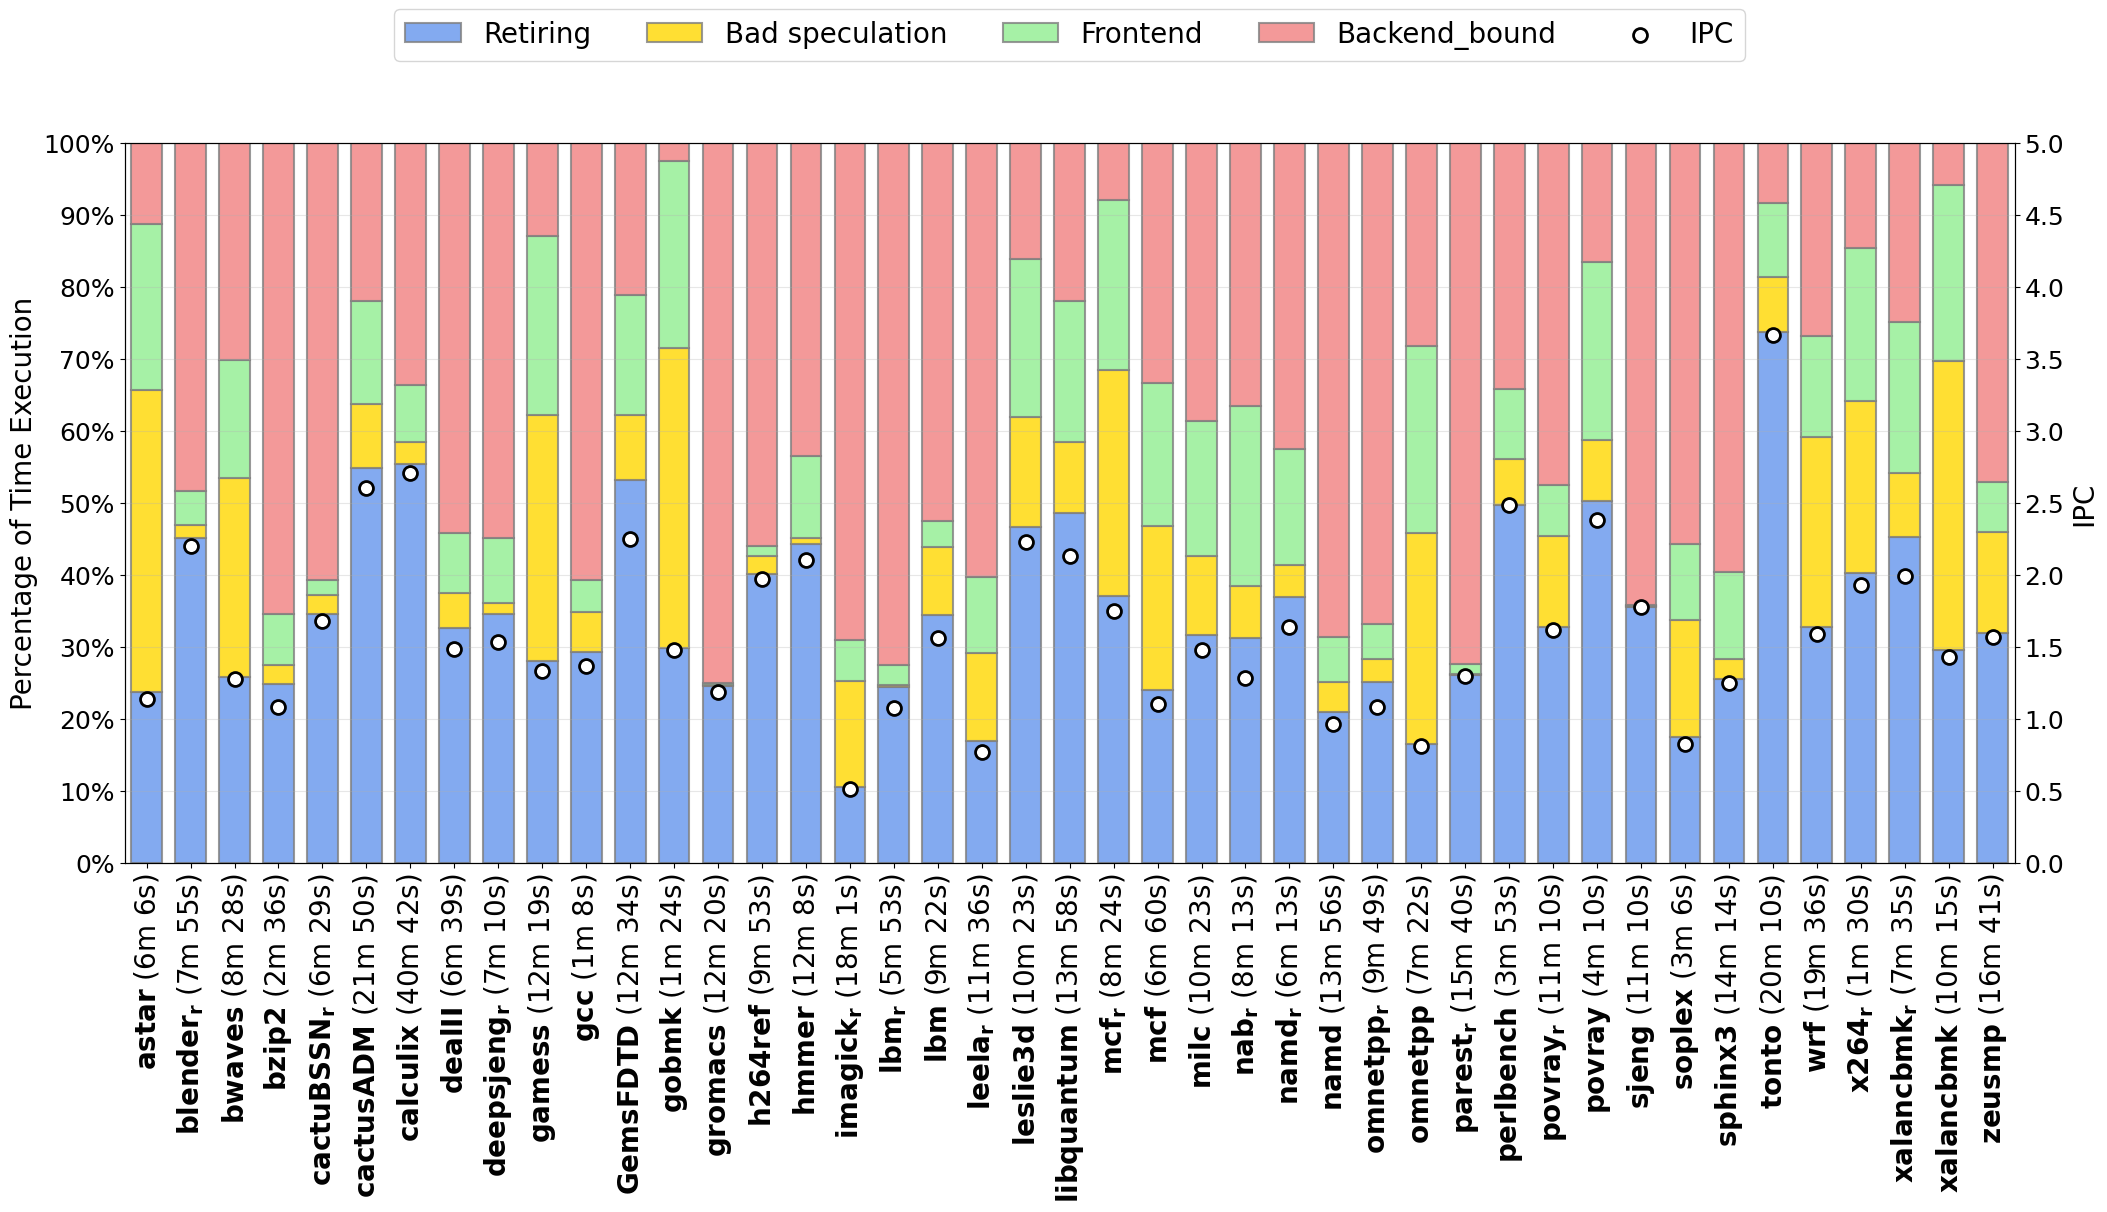
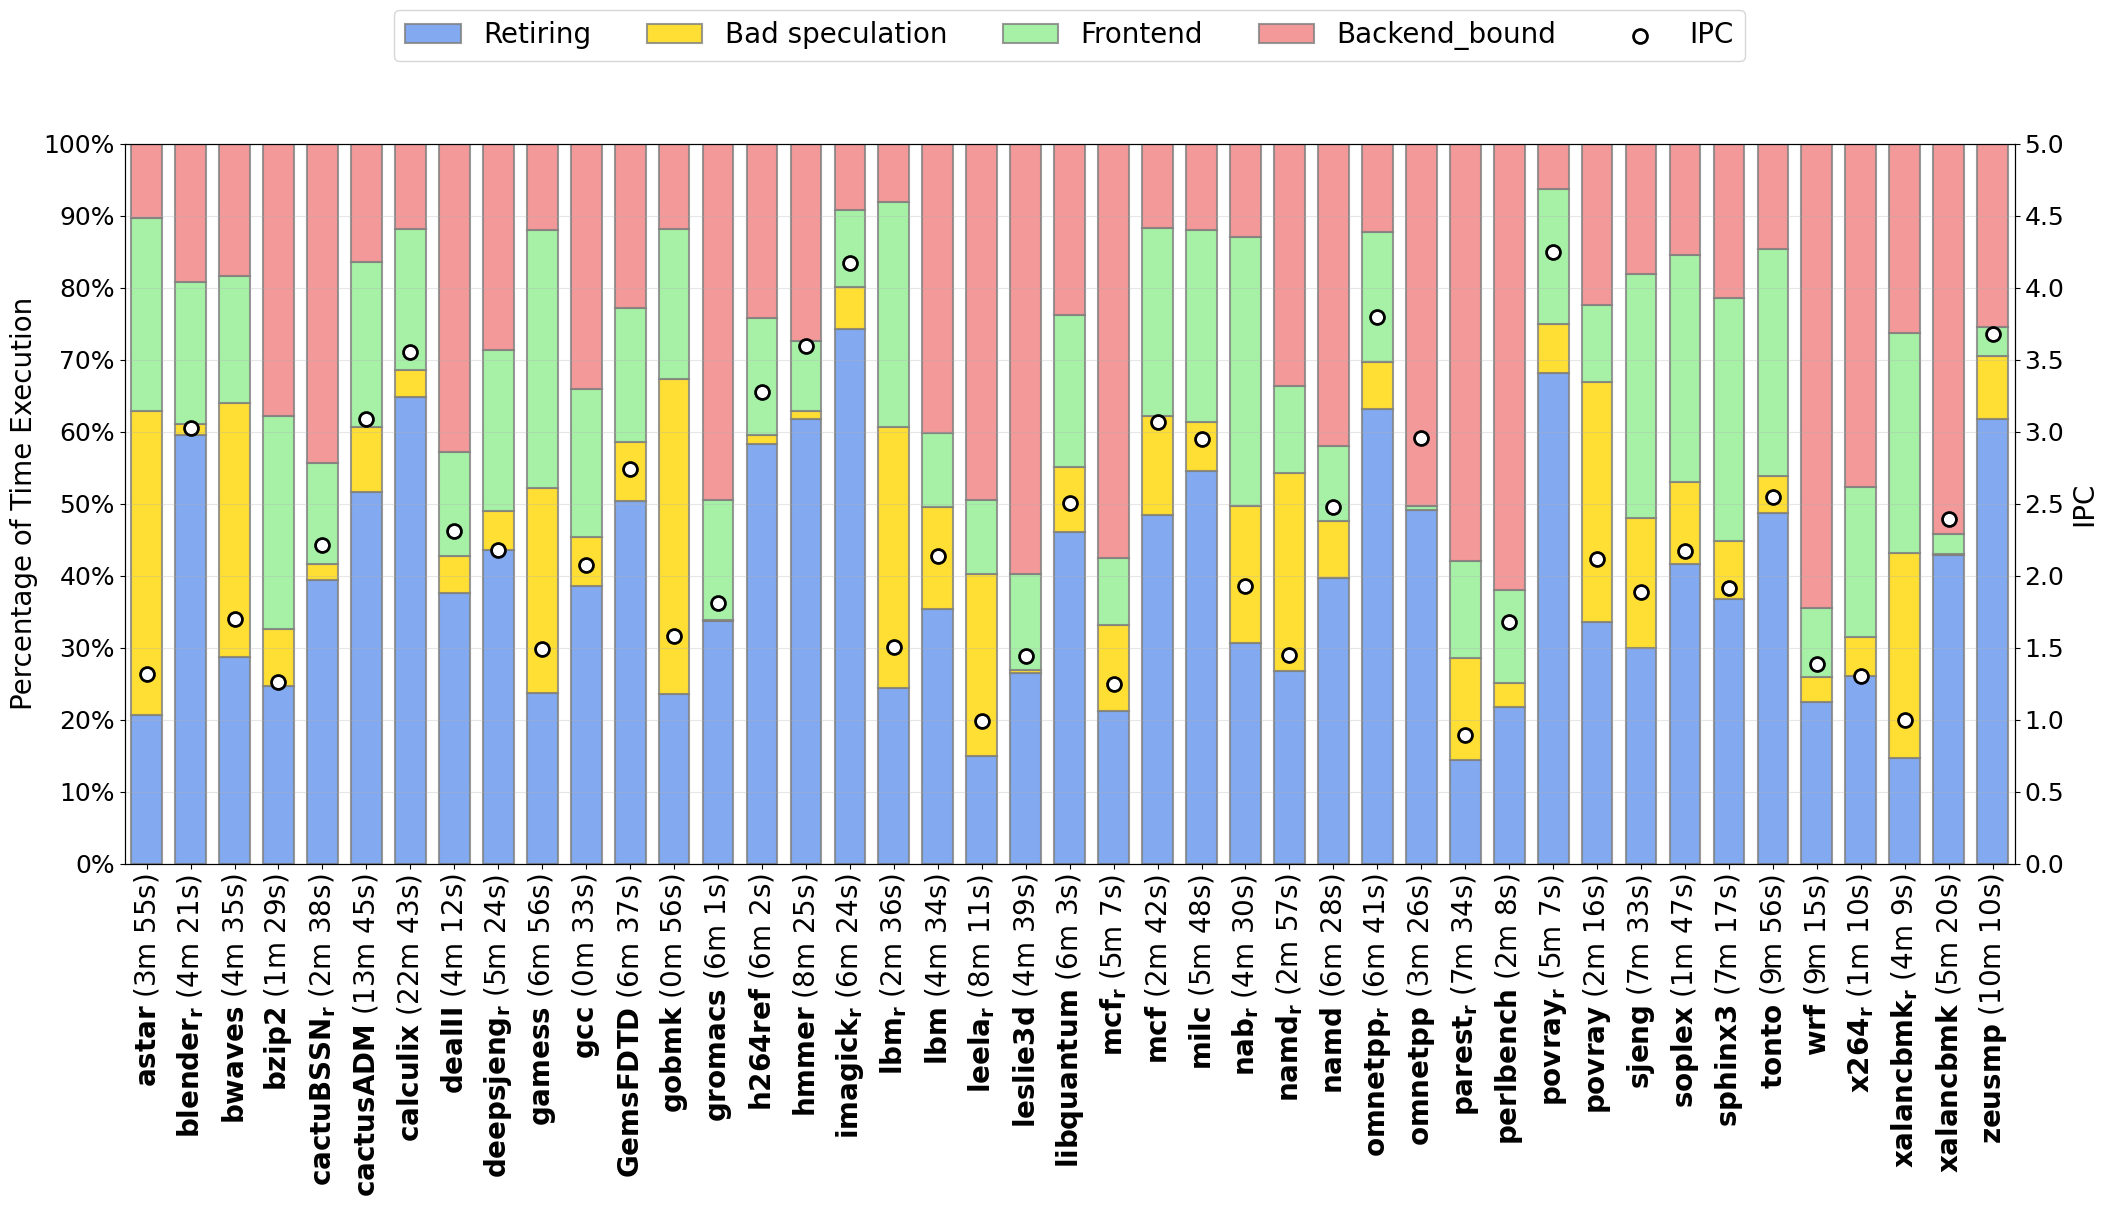
P

diff --git a/graficar_topdown_all.py b/graficar_topdown_all.py
@@ -34,18 +34,18 @@ def main():
             datos = linea.split(";")
             
             # Agrupar en conjuntos de 21
-            for i in range(0, len(datos), 8):
-                if i + 7 < len(datos):
+            for i in range(0, len(datos), 9):
+                if i + 8 < len(datos):
                     app_name = datos[i]
                     cores = datos[i+1]
                     instr = float(datos[i+2])
                     cycles = float(datos[i+3])
                     if cycles == 0:
                         cycles = 1
-                    retiring = float(datos[i+4])
-                    bad_speculation = float(datos[i+5])
-                    frontend = float(datos[i+6])
-                    backend_bound = float(datos[i+7])
+                    retiring = float(datos[i+5])
+                    bad_speculation = float(datos[i+6])
+                    frontend = float(datos[i+7])
+                    backend_bound = float(datos[i+8])
                     #memory_bound = float(datos[i+9])
 
                     ipc = instr / cycles
